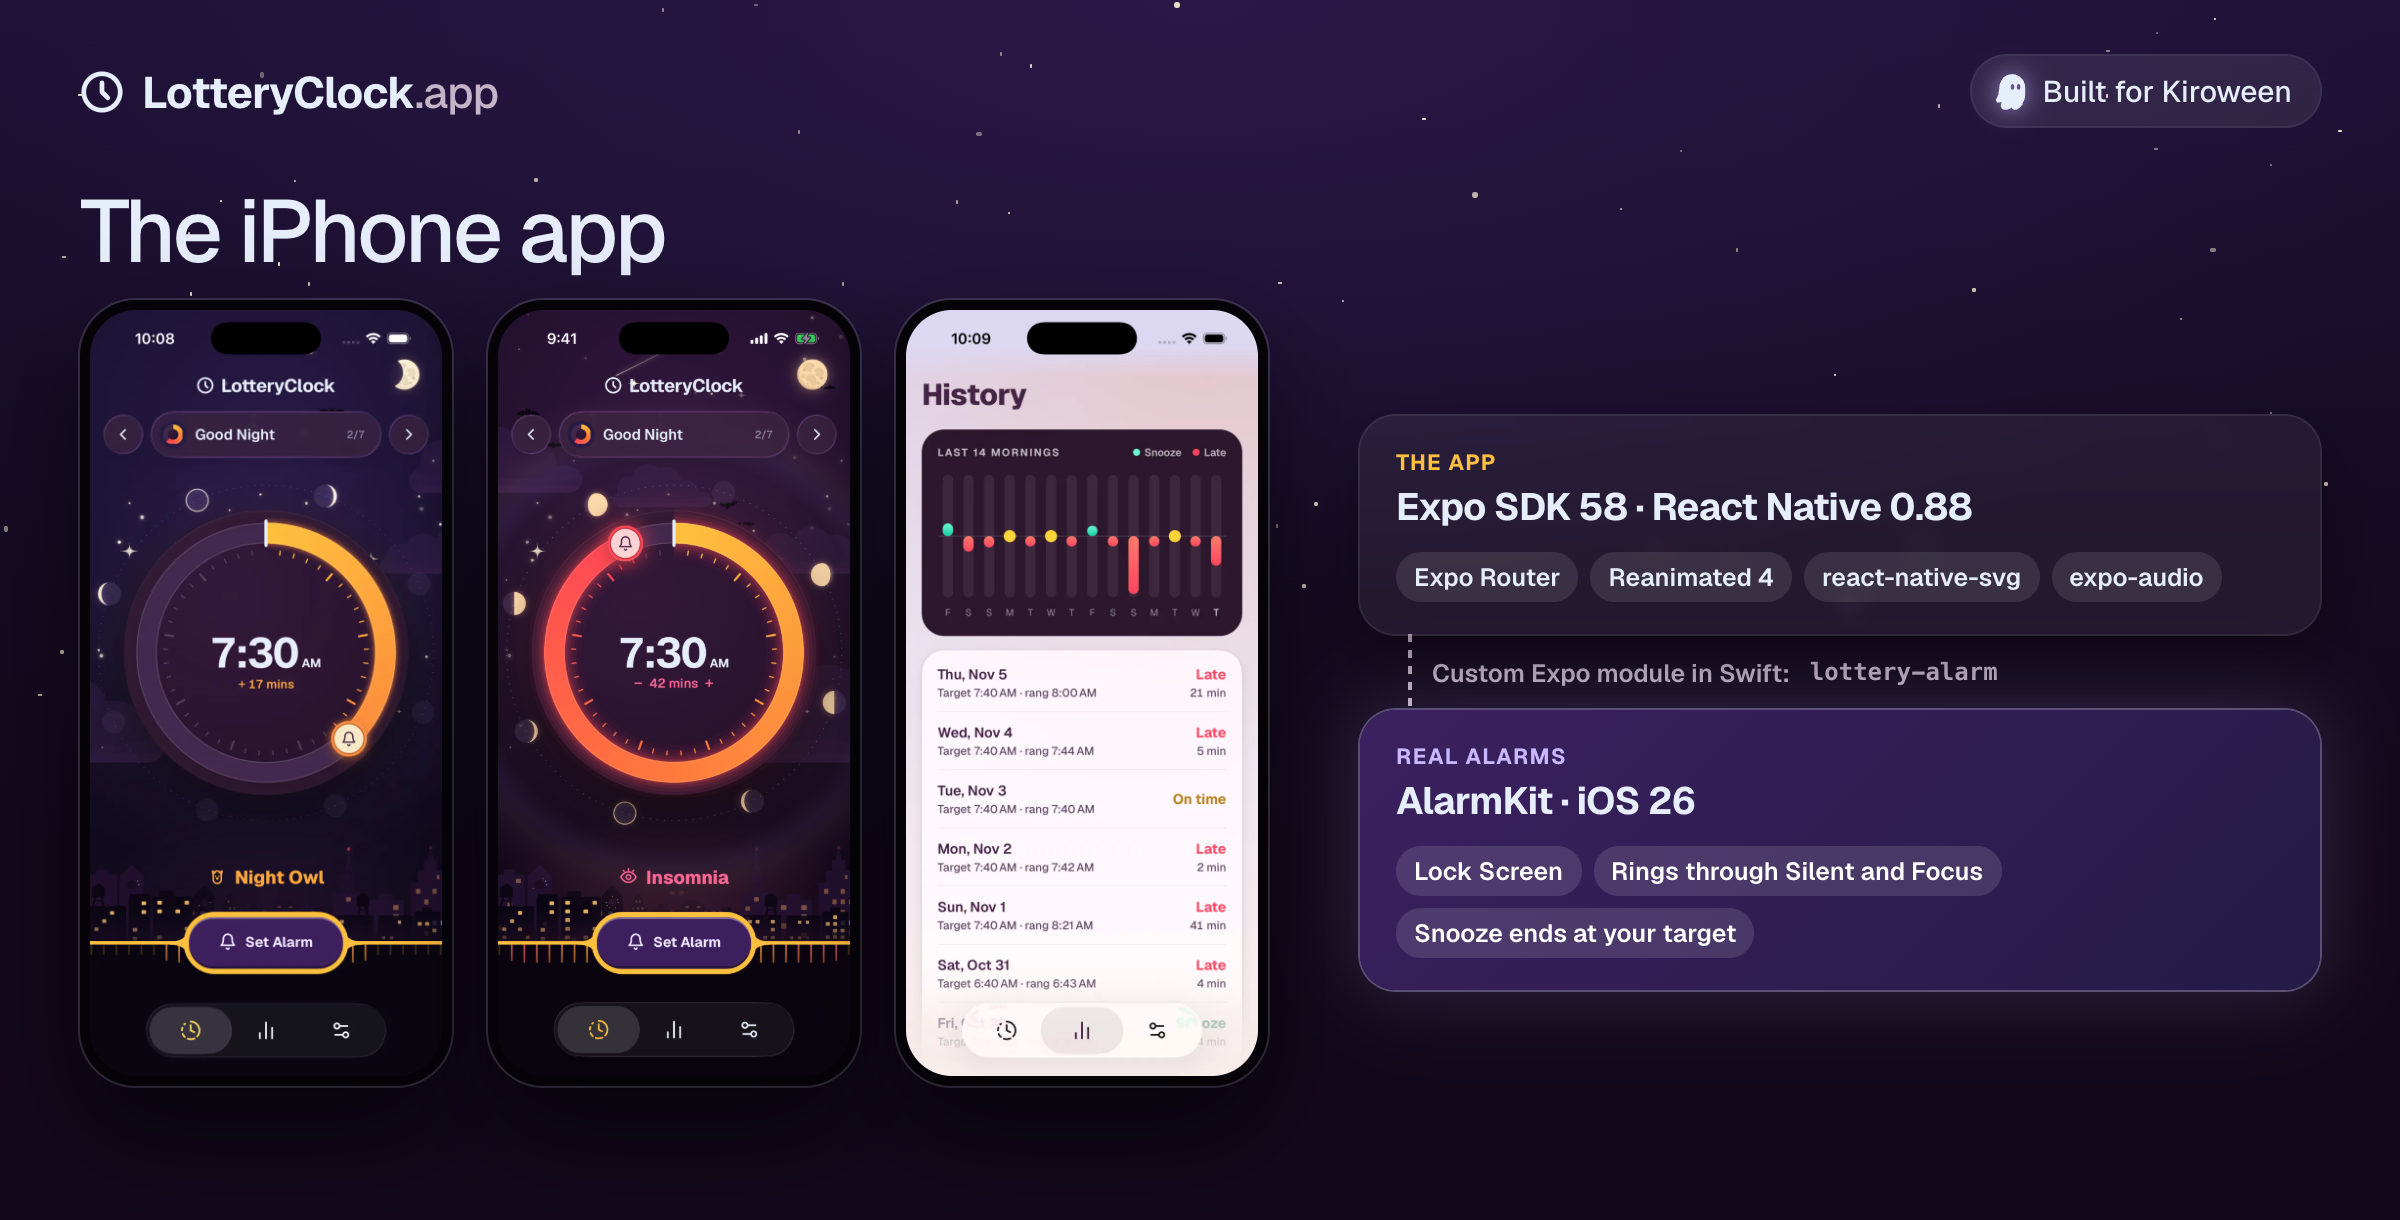
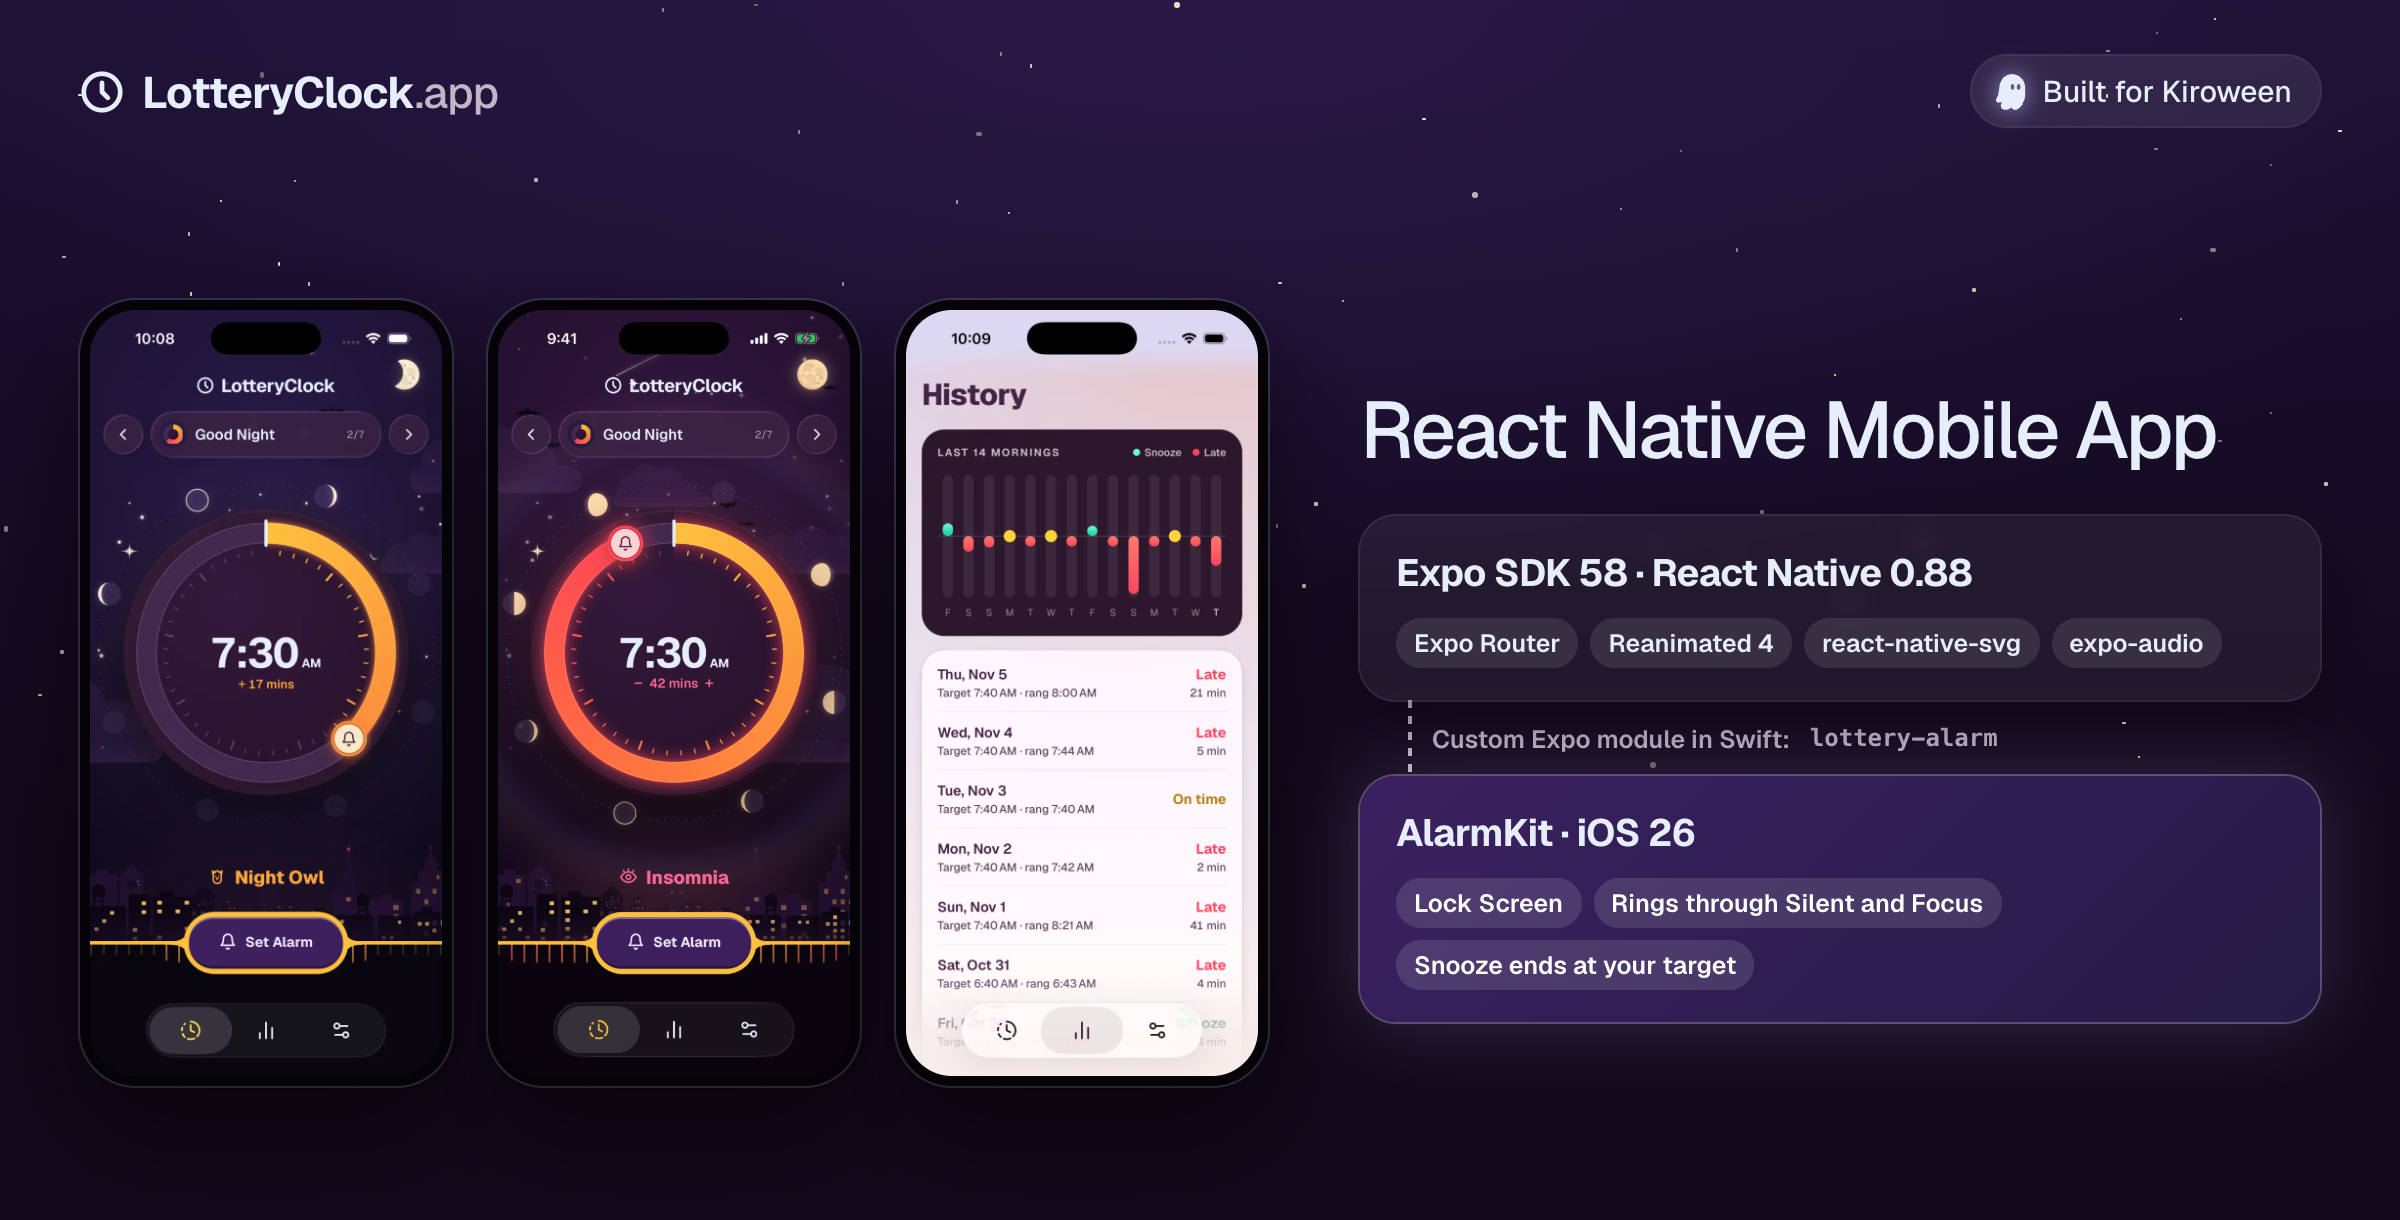
final polish - everthing should be good now!

Changed region(s): [[0.5625, 0.3115, 0.9688, 0.841], [0.0312, 0.1557, 0.2812, 0.218]]

diff --git a/docs/submission-images/src/app.html b/docs/submission-images/src/app.html
@@ -6,12 +6,11 @@
 <script src="shared.js"></script>
 <style>
   .canvas { height: 610px; }
-  .intro { padding: 30px 40px 0; }
-  .intro .lede { margin-top: 10px; max-width: 760px; }
   .phones { position: absolute; left: 40px; top: 150px; display: flex; gap: 18px; }
   .phones .phone { width: 186px; }
 
-  .stack { position: absolute; left: 680px; right: 40px; top: 208px; display: flex; flex-direction: column; align-items: stretch; }
+  .stack { position: absolute; left: 680px; right: 40px; top: 150px; height: 405px; display: flex; flex-direction: column; justify-content: center; align-items: stretch; }
+  .stack h1 { font-size: 40px; margin-bottom: 22px; white-space: nowrap; }
   .card {
     border-radius: 18px;
     padding: 16px 18px;
@@ -19,13 +18,11 @@
     backdrop-filter: blur(6px);
     box-shadow: 0 0 0 1px var(--faint), 0 14px 30px rgba(0, 0, 0, 0.35);
   }
-  .card .k { font-size: 11px; font-weight: 700; letter-spacing: 0.06em; text-transform: uppercase; color: var(--amber); }
-  .card h3 { font-size: 19px; font-weight: 700; letter-spacing: -0.02em; margin-top: 3px; }
+  .card h3 { font-size: 19px; font-weight: 700; letter-spacing: -0.02em; }
   .card p { font-size: 14px; color: var(--muted); margin-top: 4px; line-height: 1.4; }
   .chips { display: flex; flex-wrap: wrap; gap: 6px; margin-top: 10px; }
   .chip { font-size: 12.5px; font-weight: 600; padding: 4px 9px; border-radius: 999px; background: rgba(255, 255, 255, 0.1); color: var(--ink); }
   .card.alarm { background: linear-gradient(135deg, #3b2160, #241b45); box-shadow: 0 0 0 1px rgba(201, 184, 255, 0.35), 0 0 40px rgba(201, 184, 255, 0.18); }
-  .card.alarm .k { color: var(--snooze); }
   .card.alarm p { color: rgba(255, 255, 255, 0.75); }
   .card.alarm .chip { background: rgba(255, 255, 255, 0.12); color: #fff; }
   .link { display: flex; align-items: center; gap: 10px; height: 38px; padding-left: 24px; font-size: 12.5px; font-weight: 600; color: var(--muted); }
@@ -37,10 +34,6 @@
 <div class="canvas">
   <div id="sky"></div>
   <div id="header"></div>
-  <div class="intro">
-    <h1>The iPhone app</h1>
-  </div>
-
   <div class="phones">
     <div class="phone"><img src="../../../web/public/app/play-night.webp"></div>
     <div class="phone"><img src="../../screenshots/full/night-full.png"></div>
@@ -48,8 +41,8 @@
   </div>
 
   <div class="stack">
+    <h1>React Native Mobile App</h1>
     <div class="card">
-      <div class="k">The app</div>
       <h3>Expo SDK 58 · React Native 0.88</h3>
       <div class="chips">
         <span class="chip">Expo Router</span>
@@ -60,7 +53,6 @@
     </div>
     <div class="link">Custom Expo module in Swift: <code>lottery-alarm</code></div>
     <div class="card alarm">
-      <div class="k">Real alarms</div>
       <h3>AlarmKit · iOS 26</h3>
       <div class="chips">
         <span class="chip">Lock Screen</span>

diff --git a/web/src/components/sections/demo-video.tsx b/web/src/components/sections/demo-video.tsx
@@ -4,7 +4,7 @@
  *  - a file in web/public (src: "/demo.mp4", poster: "/demo-poster.jpg").
  * Leave both empty and the frame shows a "coming soon" card instead.
  */
-const DEMO_YOUTUBE_ID = "";
+const DEMO_YOUTUBE_ID = "vNiJPSQzvy0";
 const DEMO_FILE: { src: string; poster?: string } | null = null;
 
 export function DemoVideo() {

diff --git a/docs/demo-video-script-v4.md b/docs/demo-video-script-v4.md
@@ -1,0 +1,31 @@
+What if you couldn't trust your alarm clock? What if you never knew what time it really was? Are you late, or can you snooze an extra five minutes?
+
+Introducing LotteryClock: the alarm clock that turns your mornings into a lottery of punctuality.
+
+It was built for Kiroween using the Kiro IDE.
+
+The idea is a resurrection. Dylan has had it since he was a kid, when he accidentally unplugged his alarm clock and couldn't tell how long it had been off. Turns out, not knowing the real time was the best alarm he'd ever had.
+
+The way it works is simple. Set the time you want to wake up, say 7:30, then dial up your crazy. If you're just playing, add 5 minutes. If you're full-on Looney Tunes, set 45.
+
+LotteryClock then sets the alarm for a random time inside that range. You could win a snooze, or lose and be up to 45 minutes late.
+
+If you win, the snooze is set automatically to the time you won. That could be an extra 3 minutes, or 38 minutes of pure bliss.
+
+LotteryClock is a React Native mobile app, plus a website to show off the clock design and its costumes.
+
+Good Morning is the classic: a sunrise with clouds, birds and sun rays.
+
+Good Night is for night owls: a moonlit city, bats, and sheep jumping the fence.
+
+Día de Muertos brings candles, marigolds and a little luck from the ancestors.
+
+Prize Wheel is a game show, with spotlights and coin rain. Spin it to win it.
+
+Poker puts your sleep on the table, with green felt and stacks of chips.
+
+Ouija lets the spirits pick your time.
+
+Tarot lets the cards decide, and the flames and lightning grow as your bet climbs.
+
+Check it out for yourself at LotteryClock dot app.

diff --git a/README.md b/README.md
@@ -71,7 +71,7 @@ Here is every theme in the iPhone app at 22 and 42 minutes of doubt. The scene a
 
 ## The iPhone app
 
-![The iPhone app](web/public/submission/iphone-app.png)
+![React Native Mobile App](web/public/submission/iphone-app.png)
 
 The website is the toy. The iPhone app sets real alarms with Apple's AlarmKit (new in iOS 26), so they show up on the Lock Screen and ring through Silent mode and Focus. An early alarm gets a snooze that ends at your target. A late one gets no snooze button at all.
 

diff --git a/docs/hackathon-submission.md b/docs/hackathon-submission.md
@@ -80,7 +80,7 @@ How a few of them play with the dial:
 
 **Real alarms.** These use Apple's AlarmKit, which is new in iOS 26. I wrote a small Expo module in Swift (`lottery-alarm`) to talk to it.
 
-![The iPhone app](https://www.lotteryclock.app/submission/iphone-app.png)
+![React Native Mobile App](https://www.lotteryclock.app/submission/iphone-app.png)
 
 I designed and wrote it in the Kiro IDE, mainly with Opus 5.5.
 
